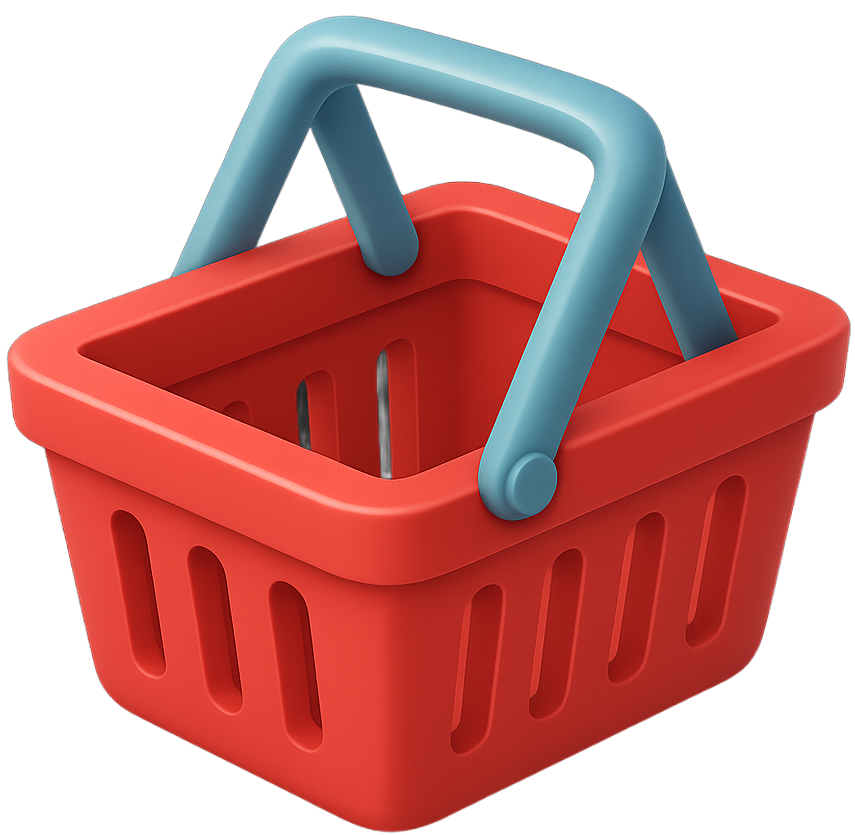
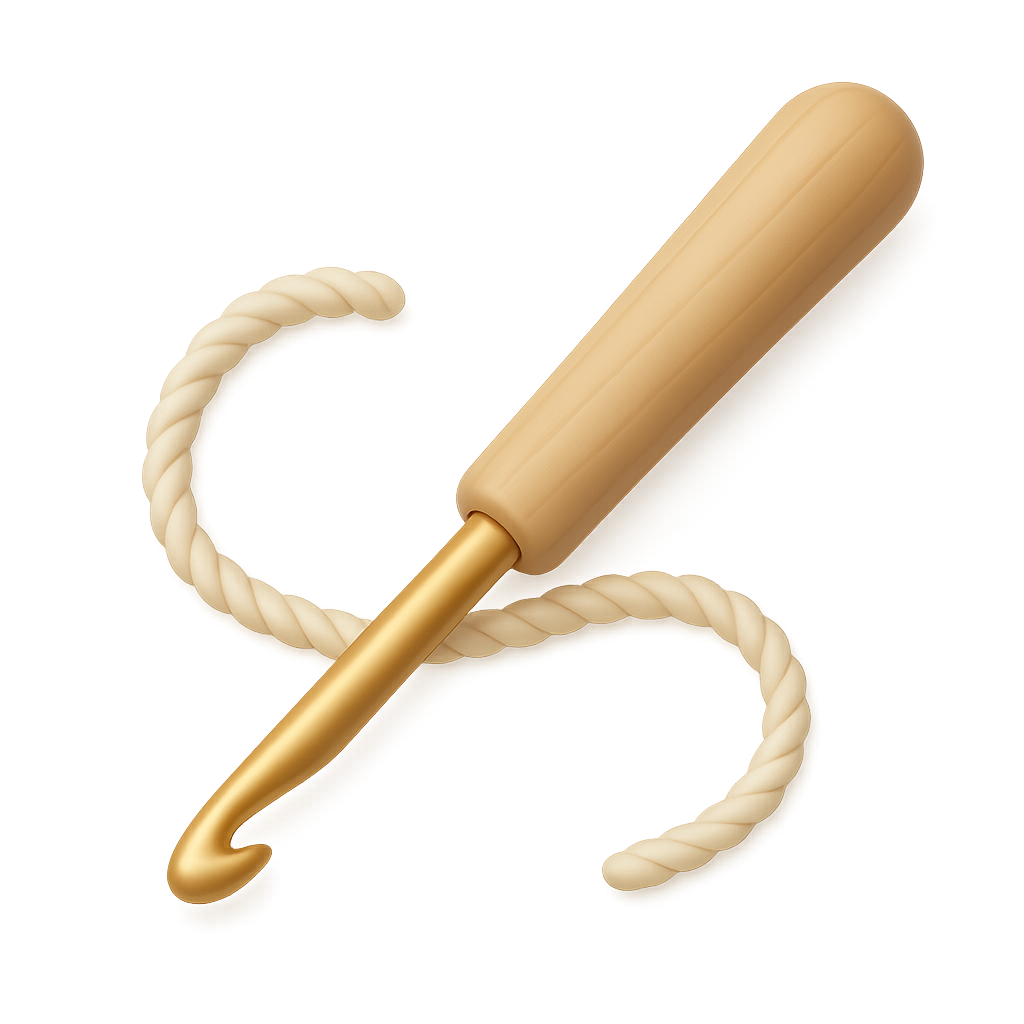
feat(ui): adiciona as artes e icones das categorias faltantes

diff --git a/lib/core/ui/theme/app_icons.dart b/lib/core/ui/theme/app_icons.dart
@@ -100,6 +100,19 @@ class AppIcons {
   static const IconData hamburger = PhosphorIconsRegular.hamburger;
   static const IconData iceCream = PhosphorIconsRegular.iceCream;
   static const IconData popcorn = PhosphorIconsRegular.popcorn;
+
+  // Categorias que existiam no banco sem ícone próprio. Elas têm arte em
+  // `utils/category_images.dart`, mas a arte só é usada no filtro da busca —
+  // nos badges de card e no chip do detalhe da loja o ícone aparece sozinho, e
+  // lá todas caíam no `forkKnife` padrão. Talher num Pet Shop, numa loja de
+  // roupa ou num prestador de serviço é simplesmente errado.
+  static const IconData pizza = PhosphorIconsRegular.pizza;
+  static const IconData bread = PhosphorIconsRegular.bread;
+  static const IconData bowlSteam = PhosphorIconsRegular.bowlSteam;
+  static const IconData tShirt = PhosphorIconsRegular.tShirt;
+  static const IconData pawPrint = PhosphorIconsRegular.pawPrint;
+  static const IconData toolbox = PhosphorIconsRegular.toolbox;
+
   static const IconData wifiSlash = PhosphorIconsRegular.wifiSlash;
   static const IconData x = PhosphorIconsRegular.x;
 }
